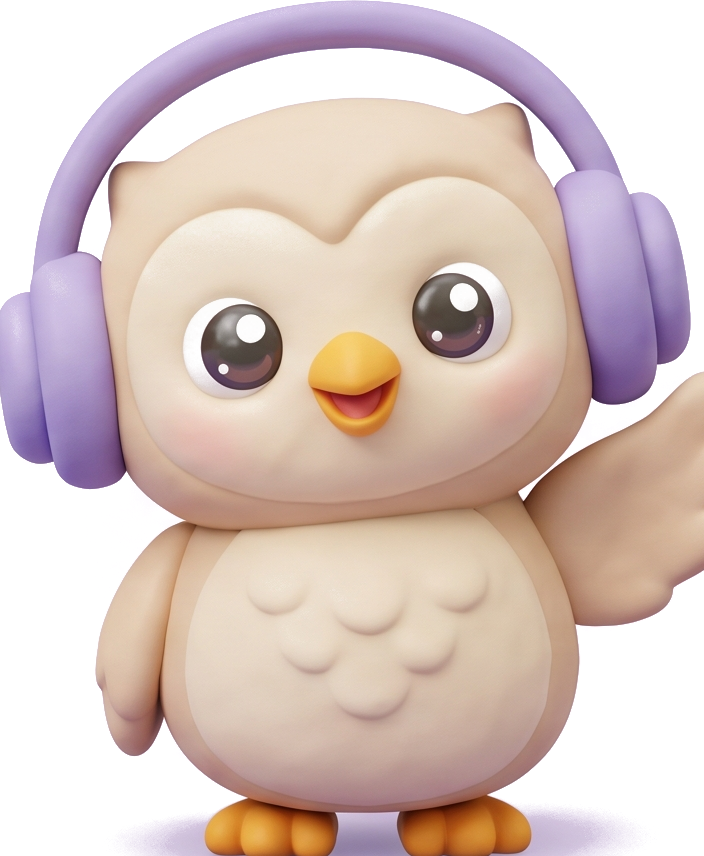
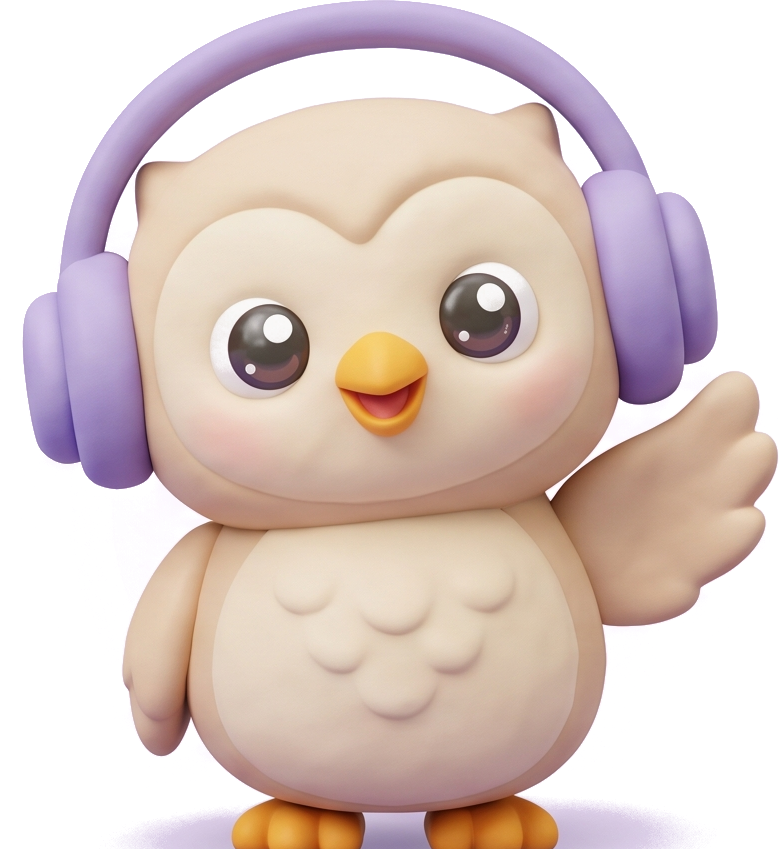
Add files via upload

diff --git a/sw.js b/sw.js
@@ -1,5 +1,5 @@
 // 부비 영단어 기초 - 서비스 워커
-const CACHE_NAME = 'booby-elem-basic-v4';
+const CACHE_NAME = 'booby-elem-basic-v5';
 const APP_SHELL = [
   './',
   './index.html',
